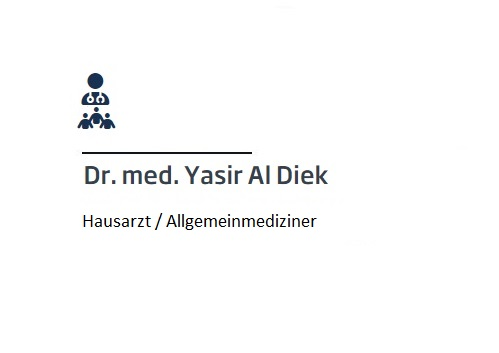
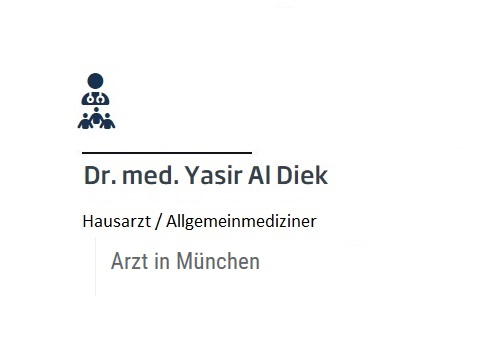
fix

Changed region(s): [[0.2104, 0.7167, 0.5411, 0.779]]

diff --git a/data/db-other.js b/data/db-other.js
@@ -173,6 +173,30 @@ const other = [
         featured: true,
     },  
     {
+        id: '7',
+        title: 'Dr.med. Mona Scholz',
+        category: 'arabic doctors',
+        icon: 'fa-solid fa-shop',
+        images: [
+            './images/other/other-7.jpeg',
+        ],
+        country: 'Germany',
+        location: 'https://goo.gl/maps/AhFS9CSaixMxUToF6',
+        site: 'https://www.arzt-auskunft.de/arzt/arzt/muenchen/dr-yasir-al-diek-1163849',
+        facebook: '',
+        termin: 'https://www.jameda.de/muenchen/aerzte/innere-allgemeinmediziner/dr-mona-scholz/uebersicht/80427275_1/',
+        address1: 'Goethestraße 8, 80336 München',
+        phone: '08918947770',
+        description: 'Dr.med. Mona Scholz, General practitioner.',
+        more: '',
+        thingstodo: [
+            'General practitioner',
+        ],
+        rate: 4.1,
+        likes: '99',
+        featured: true,
+    },  
+    {
         id: '30',
         title: 'DAR e.V. Zahr Elyasmin',
         category: 'arabic schools',

diff --git a/other.html b/other.html
@@ -5,7 +5,7 @@
   <meta charset="UTF-8" />
   <meta name="viewport" content="width=device-width, initial-scale=1.0" />
   <meta http-equiv="X-UA-Compatible" content="ie=edge" />
-  <title>Explorey ||Shopping</title>
+  <title>Explorey ||Doctors & Other</title>
   <!-- favicon -->
   <link rel="shortcut icon" href="./images/favicon.ico" type="image/x-icon" />
   <!-- font-awesome -->
